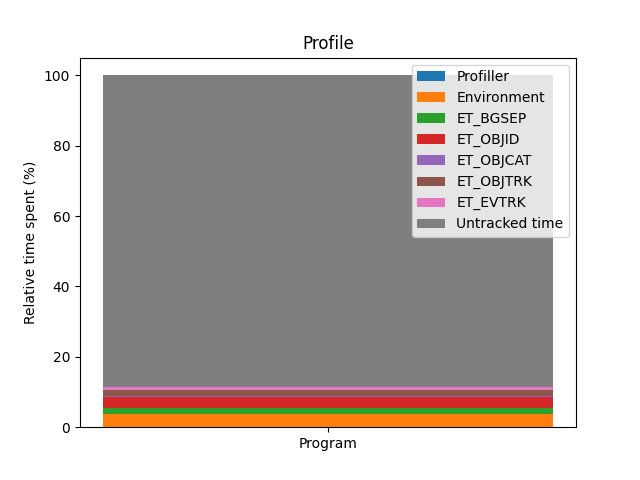
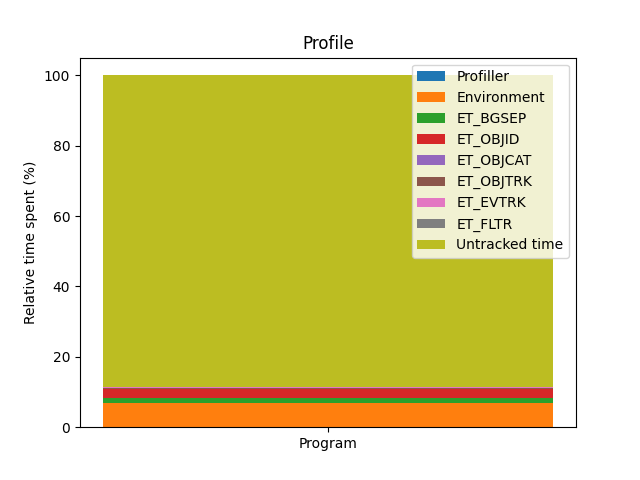
ET cat filtering working

diff --git a/pyepisodetracker/episode_tracker.py b/pyepisodetracker/episode_tracker.py
@@ -5,14 +5,20 @@ from typing import Dict
 from peasyprofiller.profiller import profiller as pprof
 
 
-CAT_SIZE_TOLERANCE = 1
-SPEED_DIF_TOLERANCE = 4
+ORIENTATION_DIF_TOLERANCE = 0.2
+AREA_DIF_TOLERANCE = 16
+
+SPEED_DIF_TOLERANCE = 6
 
 
 class Vector2():
     def __init__(self, x: float, y: float) -> None:
         self.x = x
         self.y = y
+
+
+    def area(self):
+        return abs(self.x * self.y)
 
 
     def manhat_length(self):
@@ -47,31 +53,32 @@ class Vector2():
 
 
 class Object():
-    def __init__(self, position: Vector2, size: Vector2, color: int):
+    def __init__(self, position: Vector2, size: Vector2, orientation: float, color: int):
         self.position = position
         self.size = size
+        self.orientation = orientation
         self.color = color
         self.category = None
 
 
     def __repr__(self) -> str:
-        return f"obj @ {self.position}"
+        return f"obj @ {self.position} -> [Area: {self.size.area()}, Solidity: {self.orientation}]"
 
 
 class ObjectCategory():
-    def __init__(self, size: Vector2, color: int, indicator_color: np.array) -> None:
+    def __init__(self, size: Vector2, orientation: float, indicator_color: np.array) -> None:
         self.size = size
-        self.color = color
+        self.orientation = orientation
         self.indicator_color = indicator_color
     
     
     def belongs(self, object: Object) -> bool:
-        return (self.size - object.size).manhat_length() <= CAT_SIZE_TOLERANCE
+        return abs(self.size.area() - object.size.area()) <= AREA_DIF_TOLERANCE and abs(self.orientation - object.orientation) <= ORIENTATION_DIF_TOLERANCE
     
 
     @staticmethod
     def from_obj(object: Object):
-        return ObjectCategory(object.size, object.color, np.random.randint(256, size=(3)))
+        return ObjectCategory(object.size, object.orientation, np.random.randint(256, size=(3)))
 
 
     def __repr__(self) -> str:
@@ -126,7 +133,7 @@ class MovementEvent(Event):
 
 
 class EpisodeTracker():
-    def __init__(self, background_colors: np.array, headless: bool=False) -> None:
+    def __init__(self, background_colors: np.array, relevant_cat_count: int=2, headless: bool=False) -> None:
         self.background_colors = background_colors
 
         self.headless = headless
@@ -134,6 +141,10 @@ class EpisodeTracker():
         self.tracked_objects: list[Object] = []
         self.tracked_events: list[Event] = []
         self.timestep: int = 0
+        
+        self.category_counts: dict[ObjectCategory, int] = {}
+        self.total_category_appearances = 0
+        self.relevant_cat_count = relevant_cat_count
 
 
     def process_frame(self, data: np.array) -> list[Event]:
@@ -142,6 +153,7 @@ class EpisodeTracker():
         objs = self.object_categorization(objs)
         transitions = self.object_tracking(objs)
         events = self.event_tracking(objs, transitions)
+        filtered_events = self.filtering(events)
 
         self.tracked_objects = objs
         self.tracked_events = events
@@ -157,14 +169,14 @@ class EpisodeTracker():
                 cv2.rectangle(separated_bg, (top_left.x, top_left.y), (bottom_right.x, bottom_right.y), tuple(map(int, obj.category.indicator_color)), 2)
             for obj in transitions:
                 cv2.arrowedLine(separated_bg, (obj.position.x, obj.position.y), (transitions[obj].position.x, transitions[obj].position.y), (255, 255, 255), 2)
-            for event in events:
+            for event in filtered_events:
                 if event.category == "APPEARANCE":
                     cv2.circle(separated_bg, (event.current_pos.x, event.current_pos.y), 4, (0, 255, 0), 2)
                 elif event.category == "DISAPPEARANCE":
                     cv2.circle(separated_bg, (event.current_pos.x, event.current_pos.y), 4, (255, 0, 0), 2)
                 else:
                     cv2.arrowedLine(separated_bg, (event.initial_pos.x, event.initial_pos.y), (event.current_pos.x, event.current_pos.y), (0, 0, 255), 2)
-        return separated_bg, objs, transitions, events
+        return separated_bg, filtered_events
 
 
     def background_separation(self, data: np.array, threshold=1) -> np.array:
@@ -210,11 +222,21 @@ class EpisodeTracker():
                 if bbox[2] <= 1 or bbox[3] <= 1 or bbox[0] == 0 or bbox[1] == 0 or bbox[0] + bbox[2] >= r.shape[1] or bbox[1] + bbox[3] >= r.shape[0]:
                     continue
 
-                objects.append(Object(Vector2(bbox[0], bbox[1]), Vector2(bbox[2], bbox[3]), r))
+                orientation = cv2.contourArea(contour) / (bbox[2] * bbox[3])
+                objects.append(Object(Vector2(bbox[0], bbox[1]), Vector2(bbox[2], bbox[3]), orientation, r))
 
         pprof.stop("ET_OBJID")
 
         return objects
+
+
+    def update_category_importance(self, category: ObjectCategory):
+        self.category_counts[category] += 1
+        self.total_category_appearances += 1
+
+
+    def get_category_importance(self, category: ObjectCategory) -> float:
+        return self.category_counts[category] / self.total_category_appearances
 
     
     def object_categorization(self, data: list[Object]) -> list[Object]:
@@ -229,6 +251,9 @@ class EpisodeTracker():
                 new_cat = ObjectCategory.from_obj(obj)
                 self.object_categories.append(new_cat)
                 obj.category = new_cat
+
+                self.category_counts[new_cat] = 0
+            self.update_category_importance(obj.category)
 
         pprof.stop("ET_OBJCAT")
 
@@ -335,6 +360,36 @@ class EpisodeTracker():
         pprof.stop("ET_EVTRK")
 
         return events
+
+
+    def filtering(self, events: list[Event]) -> list[Event]:
+        pprof.start("ET_FLTR")
+
+        # Order categories
+        categories = list(self.category_counts.keys())
+
+        for i in range(1, len(categories)):
+            key = categories[i]
+            j = i - 1
+
+            while j >= 0 and self.get_category_importance(key) > self.get_category_importance(categories[j]):
+                categories[j + 1] = categories[j]
+                j -= 1
+            categories[j + 1] = key
+
+        # Delete all non relevant categories
+        filtered_events = events.copy()
+        valid_categories = categories[:self.relevant_cat_count]
+        pos = 0
+        while pos < len(filtered_events):
+            if not filtered_events[pos].obj_category in valid_categories:
+                filtered_events.pop(pos)
+            else:
+                pos += 1
+
+        pprof.stop("ET_FLTR")
+
+        return filtered_events
 
     
     def finish_episode(self) -> None:

diff --git a/pyepisodetracker/env.py b/pyepisodetracker/env.py
@@ -4,12 +4,12 @@ from pyepisodetracker.episode_tracker import EpisodeTracker
 import numpy as np
 
 class AtariWrapper(Wrapper):
-    def __init__(self, env: Env, verbose: bool=True):
+    def __init__(self, env: Env, frames_per_action: int, verbose: bool=True):
         pprof.start("Environment")
         super().__init__(env)
 
         self.env = env
-        self.frames_per_action = 1
+        self.frames_per_action = frames_per_action
 
         self.step_report = 100
         self.total_steps = 0
@@ -48,10 +48,10 @@ class AtariWrapper(Wrapper):
         return self.slice_obs(obs), reward, terminated, info, done
     
 class EpisodeTrackerWrapper(AtariWrapper):
-    def __init__(self, env: Env, verbose: bool=True):
-        super().__init__(env, verbose)
+    def __init__(self, env: Env, frames_per_action: int, relevant_cat_count: int=2, verbose: bool=True):
+        super().__init__(env, frames_per_action, verbose)
 
-        self.episode_tracker = EpisodeTracker(np.array([np.array([142, 142, 142]), np.array([170, 170, 170]), np.array([214, 214, 214])]))
+        self.episode_tracker = EpisodeTracker(np.array([np.array([142, 142, 142]), np.array([170, 170, 170]), np.array([214, 214, 214])]), relevant_cat_count)
         self.to_render = None
     
 
@@ -60,7 +60,8 @@ class EpisodeTrackerWrapper(AtariWrapper):
         events = self.episode_tracker.process_frame(obs)
 
         self.to_render = events[0]
-        return events, reward, terminated, info, done
+        
+        return events[1], reward, terminated, info, done
     
 
     def reset(self, seed=None):

diff --git a/pyepisodetracker/main.py b/pyepisodetracker/main.py
@@ -26,6 +26,6 @@ class Monitor():
 ###############
 cv2.imwrite("test.png", gym.make("ALE/Freeway-v5", render_mode="rgb_array").reset()[0])
 
-env = EpisodeTrackerWrapper(gym.make("ALE/Freeway-v5", render_mode="rgb_array"))
+env = EpisodeTrackerWrapper(gym.make("ALE/Freeway-v5", render_mode="rgb_array"), 2)
 monitor = Monitor()
 play(env, callback=monitor.callback, keys_to_action=KEYMAP)
